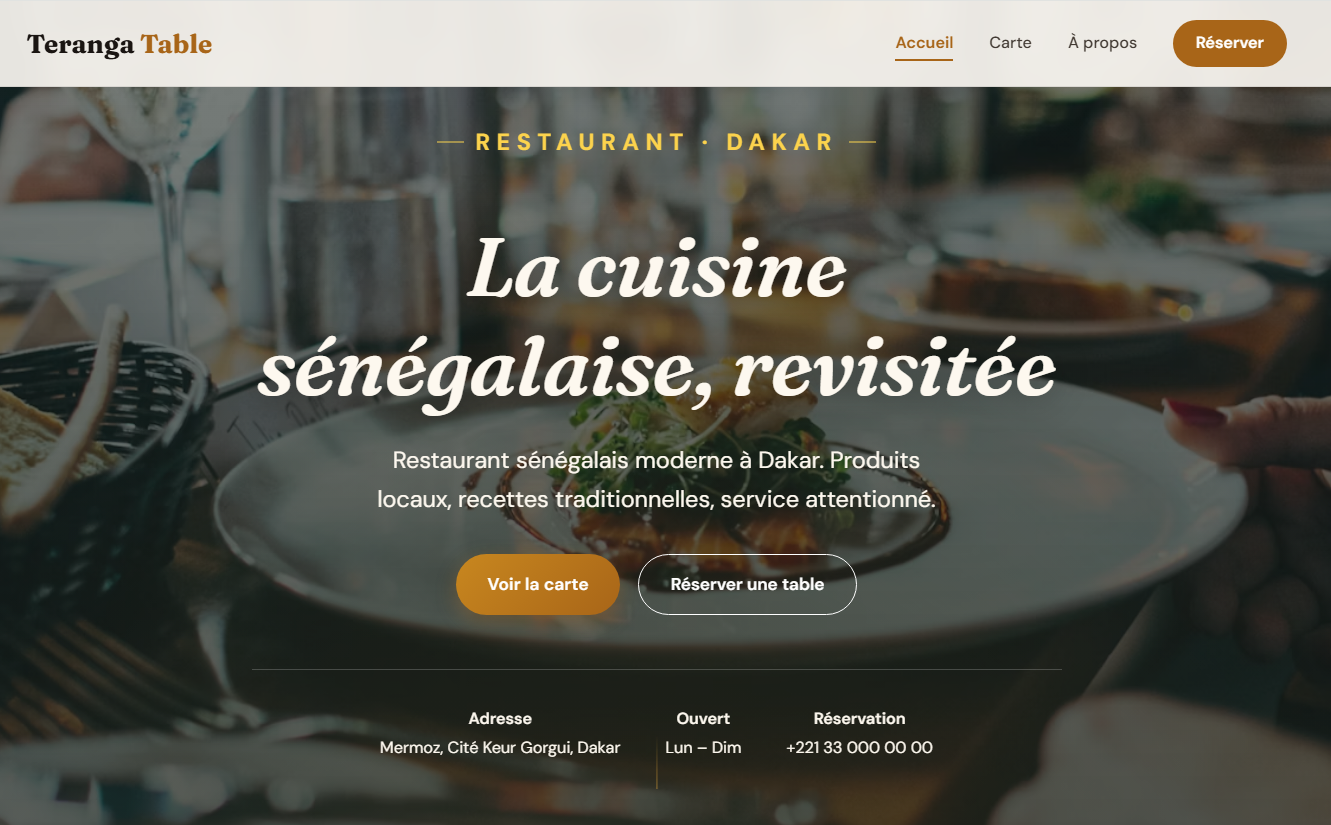
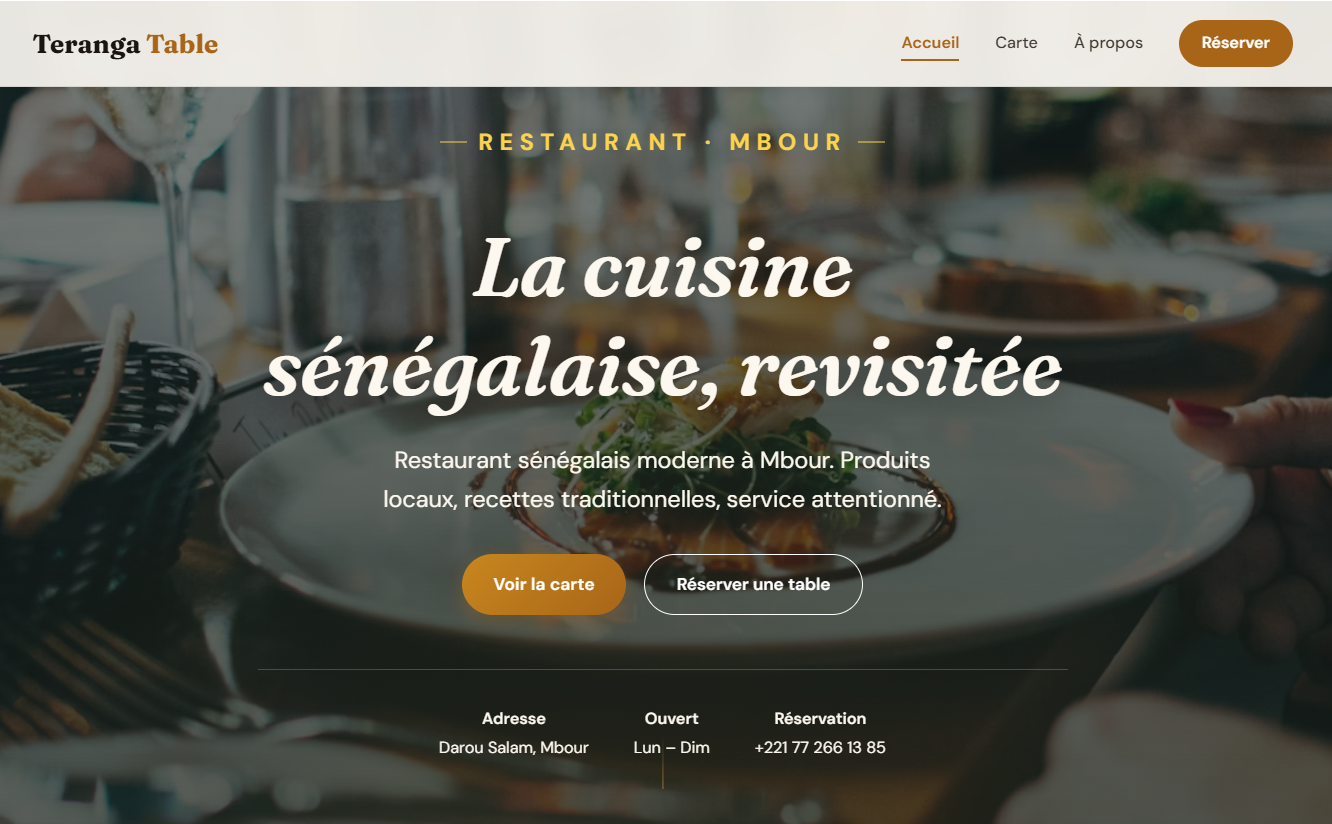
docs: enrichissement README (captures + notifications email Brevo)

diff --git a/README.md b/README.md
@@ -1,26 +1,57 @@
-# 🍽 Teranga Table — restaurant sénégalais (full-stack)
+# 🍽 Teranga Table — restaurant sénégalais 
 
 Site vitrine **et** système de réservation complet pour un restaurant, construit
 avec **Next.js 16, TypeScript, Tailwind v4, Drizzle ORM et PostgreSQL**.
 
 Réservation en ligne → **API** → **base de données** → **espace admin protégé**
-pour confirmer ou annuler les demandes.
+pour confirmer ou annuler les demandes → **email automatique au client** à
+chaque étape (demande reçue, confirmée, annulée).
 
 > **🔗 Démo en ligne :** https://restaurant-template-five-pi.vercel.app/
 
 ## 🖼 Aperçu
 
+### Site public
+
 | Accueil | Nos signatures |
 | :---: | :---: |
-| ![Page d'accueil](public/screenshots/accueil.png) | ![Section signatures](public/screenshots/services.png) |
+| ![Page d'accueil](public/screenshots/accueil.png) | ![Nos signatures](public/screenshots/repas.png) |
 
-| Appel à réserver & pied de page | Notre histoire |
+| Menu — Dîner | Menu — Jus & boissons |
 | :---: | :---: |
-| ![CTA et footer](public/screenshots/footer.png) | ![Page à propos](public/screenshots/history.png) |
+| ![Menu dîner](public/screenshots/diner.png) | ![Menu jus](public/screenshots/jus.png) |
 
-La carte de localisation (Leaflet / OpenStreetMap, marqueur doré pulsé) :
+| Notre histoire | Appel à réserver & pied de page |
+| :---: | :---: |
+| ![Page à propos](public/screenshots/hostory.png) | ![CTA et footer](public/screenshots/footer.png) |
 
-![Localisation](public/screenshots/localisation.png)
+### Réservation & localisation
+
+| Formulaire de réservation | Carte de localisation |
+| :---: | :---: |
+| ![Formulaire](public/screenshots/formulaire.png) | ![Localisation](public/screenshots/localisation.png) |
+
+La carte de localisation (Leaflet / OpenStreetMap, marqueur doré pulsé) pointe
+vers l'adresse configurée dans `content/site.ts`.
+
+### Espace admin
+
+| Connexion | Tableau des réservations |
+| :---: | :---: |
+| ![Connexion admin](public/screenshots/login.png) | ![Espace admin](public/screenshots/espace-admin.png) |
+
+### 📧 Notifications par email (Brevo)
+
+Le client reçoit un email automatique à chaque étape de sa réservation, avec
+un template aux couleurs du restaurant (date, heure, nombre de personnes).
+
+| Reçu dans la boîte de réception | Accusé de réception (à la soumission) |
+| :---: | :---: |
+| ![Email reçu](public/screenshots/email.png) | ![Demande reçue](public/screenshots/demande-reçue.png) |
+
+| Confirmation (par l'admin) | Annulation (par l'admin) |
+| :---: | :---: |
+| ![Confirmation](public/screenshots/confirmee.png) | ![Annulation](public/screenshots/annulee.png) |
 
 ## ✨ Fonctionnalités
 
@@ -30,6 +61,11 @@ La carte de localisation (Leaflet / OpenStreetMap, marqueur doré pulsé) :
   **validation serveur (zod)** → enregistrement en base **PostgreSQL** (Drizzle).
 - **Espace admin** (`/admin`, protégé) : liste des réservations, filtres par
   statut, confirmation / annulation en un clic (`PATCH /api/reservations/:id`).
+- **Notifications email transactionnelles (Brevo)** : le client reçoit
+  automatiquement un email à la soumission de sa demande (accusé de
+  réception), puis un second lorsque l'admin confirme ou annule. Envoi non
+  bloquant — un échec d'envoi ne fait jamais échouer l'action côté serveur ou
+  admin, il est simplement loggé.
 - **Authentification** : connexion par mot de passe → **cookie de session signé
   (JWT via jose)**, `middleware` qui protège `/admin`, comparaison du mot de
   passe à temps constant.
@@ -39,23 +75,24 @@ La carte de localisation (Leaflet / OpenStreetMap, marqueur doré pulsé) :
 
 ## 🧱 Stack & architecture
 
-| Couche      | Choix                                                        |
-| ----------- | ----------------------------------------------------------- |
-| Framework   | Next.js 16 (App Router, Route Handlers, middleware)         |
-| Langage     | TypeScript strict                                           |
-| Style       | Tailwind v4 + design system maison (`app/globals.css`)      |
-| Base        | PostgreSQL via **Drizzle ORM** + driver serverless **Neon** |
-| Validation  | **zod** (partagée client + serveur)                         |
-| Auth        | **jose** (JWT signé en cookie httpOnly)                     |
-| Carte       | **Leaflet** + OpenStreetMap (sans clé API)                  |
-| Tests       | Vitest                                                      |
+| Couche             | Choix                                                        |
+| ------------------ | ------------------------------------------------------------ |
+| Framework           | Next.js 16 (App Router, Route Handlers, middleware)          |
+| Langage             | TypeScript strict                                             |
+| Style               | Tailwind v4 + design system maison (`app/globals.css`)       |
+| Base                | PostgreSQL via **Drizzle ORM** + driver serverless **Neon**  |
+| Validation          | **zod** (partagée client + serveur)                          |
+| Auth                | **jose** (JWT signé en cookie httpOnly)                      |
+| Email transactionnel| **Brevo** (API REST, sans dépendance npm)                    |
+| Carte               | **Leaflet** + OpenStreetMap (sans clé API)                   |
+| Tests               | Vitest                                                        |
 
 ```
 app/            pages publiques, /admin, et /api (Route Handlers)
 components/      Header, Footer, MenuGrid, ReservationForm, AdminTable, RestaurantMap…
 content/         site.ts + menu.ts (contenu typé, séparé du code)
 db/              schema Drizzle + client (init paresseuse)
-lib/             validation (zod) + auth (jose)
+lib/             validation (zod) + auth (jose) + email (notifications Brevo)
 drizzle/         migrations SQL générées
 ```
 
@@ -83,13 +120,32 @@ ADMIN_PASSWORD="ton-mot-de-passe-admin"
 AUTH_SECRET="une-longue-chaine-aleatoire"   # openssl rand -base64 32
 ```
 
-### 3. Créer les tables
+### 3. Emails transactionnels (Brevo — gratuit, 300 emails/jour)
+
+1. Crée un compte sur [brevo.com](https://brevo.com).
+2. Vérifie une adresse expéditeur : menu du compte → **Paramètres** →
+   **Senders, Domains & IPs** → onglet **Senders** → ajoute et vérifie ton
+   adresse (un clic dans l'email de confirmation reçu).
+3. Crée une clé API : **Paramètres** → **SMTP & API** → onglet **Clés API &
+   MCP** → **Générer une nouvelle clé API**.
+4. Ajoute ces variables à ton `.env` :
+
+```dotenv
+BREVO_API_KEY="xkeysib-ta-cle"
+EMAIL_FROM="l-adresse-verifiee@exemple.com"
+EMAIL_FROM_NAME="Teranga Table"
+```
+
+> Sans ces variables, le site fonctionne normalement — l'envoi d'email est
+> simplement sauté (log d'avertissement en console).
+
+### 4. Créer les tables
 
 ```bash
 npm run db:migrate     # applique les migrations à ta base Neon
 ```
 
-### 4. Lancer
+### 5. Lancer
 
 ```bash
 npm run dev            # http://localhost:3000
@@ -122,11 +178,13 @@ npm run db:migrate   # applique les migrations
 
 1. Importe le dépôt sur [vercel.com](https://vercel.com).
 2. Ajoute les **variables d'environnement** (`DATABASE_URL`, `ADMIN_PASSWORD`,
-   `AUTH_SECRET`) dans les réglages du projet.
+   `AUTH_SECRET`, `BREVO_API_KEY`, `EMAIL_FROM`, `EMAIL_FROM_NAME`) dans les
+   réglages du projet, pour les 3 environnements (Production, Preview,
+   Development).
 3. Applique les migrations sur ta base Neon (`npm run db:migrate` en local
    pointant sur la même base).
 4. Déploie, puis reporte l'URL en haut de ce README.
 
 ---
 
-Conçu et développé par **Ndeye Penda Sarr**.
+Conçu et développé par **Ndeye Penda Sarr** - 2026.
